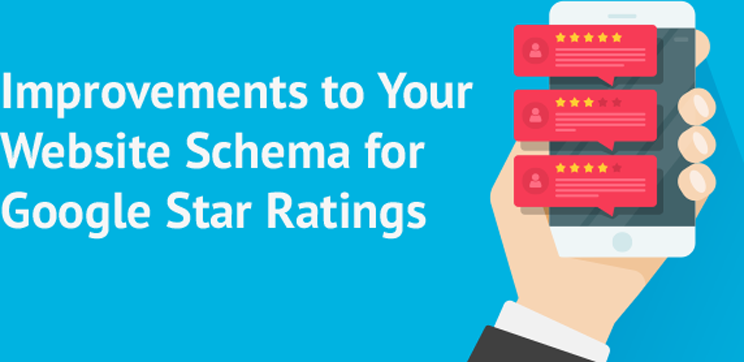
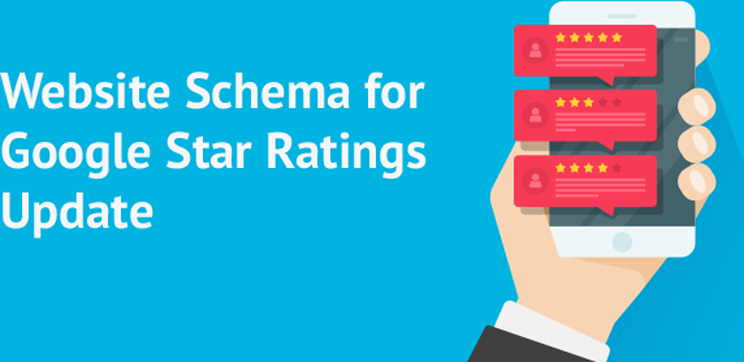
:memo: Update main image

Changed region(s): [[0.0, 0.3646, 0.5874, 0.5166], [0.0, 0.1823, 0.6492, 0.3343], [0.0, 0.5166, 0.5874, 0.6685]]

diff --git a/dist/schema.html b/dist/schema.html
@@ -140,7 +140,7 @@ a[href^=tel],
         <table border="0" cellpadding="0" cellspacing="0" align="center"  style="table-layout: fixed; width: 600px; border-collapse: collapse !important; overflow: hidden; max-width: 600px !important; background-color: #ffffff;" width="600" bgcolor="#ffffff">
             <tr>
                 <td  style="text-align: left; padding: 29px 0 0 28px; background-color: #00b3e1;" align="left" bgcolor="#00b3e1">
-                    <img alt="[placeholder]" src="https://justatic.com/v/1/emails/images/clients/2017/07/19/schema-main-image-01.png" tabindex="0" border="0"  style="display: block; width: 572.307692308px; height: 278.461538462px; margin: 0 auto; Margin: 0 auto;" width="572.307692308" height="278.461538462">
+                    <img alt="[placeholder]" src="https://justatic.com/v/2/emails/images/clients/2017/07/19/schema-main-image-01.png" tabindex="0" border="0"  style="display: block; width: 572.307692308px; height: 278.461538462px; margin: 0 auto; Margin: 0 auto;" width="572.307692308" height="278.461538462">
                 </td>
             </tr>
             <tr>
@@ -167,7 +167,7 @@ a[href^=tel],
                         </tr>
                         <tr>
                             <td  style="padding: 9px 0 20px; text-align: left; width: 100%;" width="100%" align="left">
-                                <img alt="[placeholder]" src="https://justatic.com/v/1/emails/images/clients/2017/07/19/schema-search-results-01.png" tabindex="0" border="0"  style="display: block; width: 600px; height: 283.846153846px; margin: 0 auto; Margin: 0 auto;" width="600" height="283.846153846">
+                                <img alt="[placeholder]" src="https://justatic.com/v/2/emails/images/clients/2017/07/19/schema-search-results-01.png" tabindex="0" border="0"  style="display: block; width: 600px; height: 283.846153846px; margin: 0 auto; Margin: 0 auto;" width="600" height="283.846153846">
                             </td>
                         </tr>
                         <tr>
@@ -179,7 +179,7 @@ a[href^=tel],
                         </tr>
                         <tr>
                             <td  style="padding: 0 30px 2px 28px; text-align: left; width: 100%;" width="100%" align="left">
-                                <img alt="[placeholder]" src="https://justatic.com/v/1/emails/images/clients/2017/07/19/schema-review-form-01.png" tabindex="0" border="0"  style="display: block; width: 542.307692308px; height: 779.230769231px; margin: 0 auto; Margin: 0 auto;" width="542.307692308" height="779.230769231">
+                                <img alt="[placeholder]" src="https://justatic.com/v/2/emails/images/clients/2017/07/19/schema-review-form-01.png" tabindex="0" border="0"  style="display: block; width: 542.307692308px; height: 779.230769231px; margin: 0 auto; Margin: 0 auto;" width="542.307692308" height="779.230769231">
                             </td>
                         </tr>
                         <tr>
